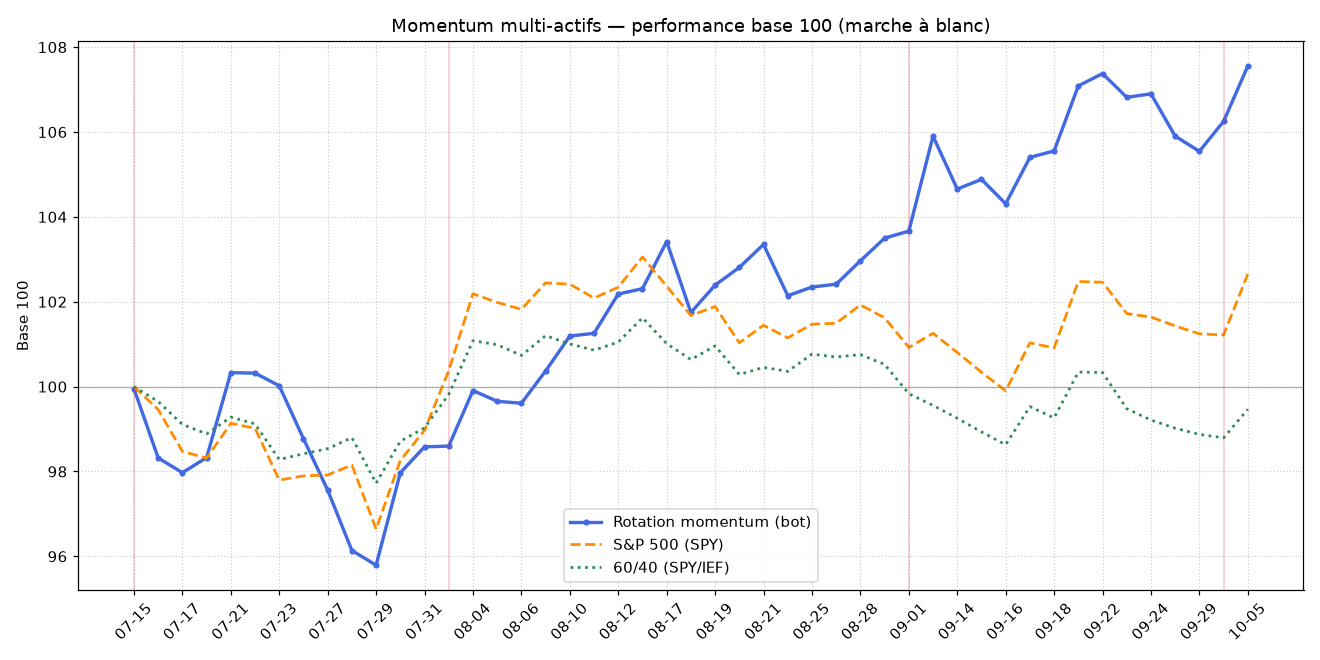
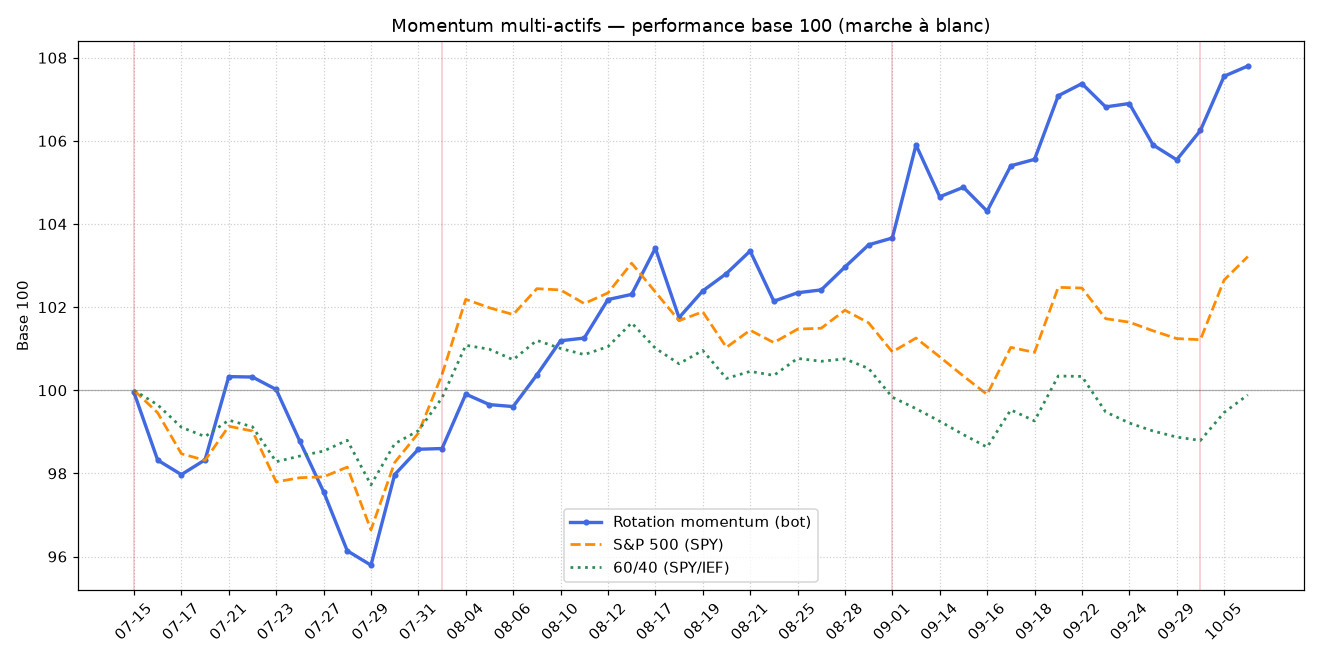
🧭 Passage quotidien du bot momentum [skip ci]

diff --git a/daily_report.md b/daily_report.md
@@ -1,49 +1,47 @@
-# 🧭 Rotation momentum multi-actifs — 2026-10-05
+# 🧭 Rotation momentum multi-actifs — 2026-10-06
 
 ## 💼 Situation
-- **Valeur du portefeuille : 10,755.48 $** (+7.55% depuis le départ)
-- Benchmark S&P 500 : +2.65% — Benchmark 60/40 : -0.53%
-- Régime mécanique : **offensif** — VIX : 15.5
+- **Valeur du portefeuille : 10,780.08 $** (+7.80% depuis le départ)
+- Benchmark S&P 500 : +3.22% — Benchmark 60/40 : -0.11%
+- Régime mécanique : **offensif** — VIX : 15.0
 - Frais cumulés depuis le départ : 5.31 $
 
 ## 📌 Positions
 | ETF | Nom | Valeur | Prix | Prix de revient |
 |---|---|---:|---:|---:|
-| **DBC** | Matières premières (panier large) | 3,505.24 $ | 32.39 $ | 28.79 $ |
-| **EEM** | Actions émergentes | 3,643.46 $ | 68.73 $ | 65.62 $ |
-| **QQQ** | Nasdaq 100 (tech US) | 3,609.31 $ | 756.20 $ | 717.24 $ |
+| **DBC** | Matières premières (panier large) | 3,537.70 $ | 32.69 $ | 28.79 $ |
+| **EEM** | Actions émergentes | 3,619.07 $ | 68.27 $ | 65.62 $ |
+| **QQQ** | Nasdaq 100 (tech US) | 3,625.82 $ | 759.66 $ | 717.24 $ |
 
 ## 📊 Classement momentum du jour
 | Rang | ETF | Score | 3 mois | 6 mois | 12 mois | Momentum absolu |
 |---|---|---:|---:|---:|---:|:---:|
-| #1 | **DBC** 📌 | +26.1% | +18.4% | +9.9% | +49.9% | ✅ |
-| #2 | **QQQ** 📌 | +20.3% | +6.7% | +28.8% | +25.4% | ✅ |
-| #3 | **EEM** 📌 | +18.4% | +4.6% | +21.0% | +29.6% | ✅ |
-| #4 | **SPY** | +13.0% | +3.9% | +18.2% | +17.0% | ✅ |
-| #5 | **EFA** | +7.1% | -0.1% | +7.3% | +14.1% | ✅ |
-| #6 | **GLD** | -1.2% | +0.5% | -11.2% | +7.0% | ❌ |
-| #7 | **VNQ** | -2.2% | -8.6% | +0.4% | +1.6% | ❌ |
-| #8 | **TLT** | -8.8% | -7.7% | -8.9% | -9.9% | ❌ |
-| refuge | **IEF** | -4.3% | -4.1% | -4.5% | -4.3% | ❌ |
+| #1 | **DBC** 📌 | +26.6% | +17.6% | +11.3% | +50.8% | ✅ |
+| #2 | **QQQ** 📌 | +20.9% | +6.9% | +29.3% | +26.5% | ✅ |
+| #3 | **EEM** 📌 | +17.1% | +3.1% | +19.7% | +28.3% | ✅ |
+| #4 | **SPY** | +13.8% | +4.8% | +18.8% | +17.7% | ✅ |
+| #5 | **EFA** | +7.3% | +0.8% | +7.6% | +13.4% | ✅ |
+| #6 | **GLD** | -0.8% | +2.1% | -11.5% | +6.9% | ❌ |
+| #7 | **VNQ** | -1.0% | -6.3% | +1.1% | +2.1% | ❌ |
+| #8 | **TLT** | -8.5% | -7.3% | -8.7% | -9.5% | ❌ |
+| refuge | **IEF** | -4.0% | -3.7% | -4.5% | -3.8% | ❌ |
 
 📌 = détenu — ✅/❌ = momentum absolu vs T-Bills (BIL)
 
 ## 🧠 L'œil de l'analyste (IA)
-**Tech et matières premières dominent malgré la vive tension obligataire** — régime perçu : `risk_on`
+**Hégémonie des matières premières et de la tech en plein paradoxe monétaire** — régime perçu : `risk_on`
 
-Le classement systématique met en évidence une dynamique de fin de cycle reflationniste : DBC domine nettement (+26,1%), soutenu par QQQ (+20,3%) et EEM (+18,4%), ce dernier profitant du dynamisme des ressources et de marchés clés comme le Brésil. Cette sélection 100% offensive contraste violemment avec la débâcle obligataire : TLT (-8,8%) et le refuge IEF (-4,3%) demeurent en momentum absolu négatif, confirmant le rejet total de la duration par le marché.
-
-Sur le front macroéconomique, la complaisance apparente des indices actions (VIX contenu à 15,5) masque la montée des périls sur les taux souverains américains et européens, alimentée par la persistance de l'inflation. L'écart entre EEM et SPY (+13,0%) reste d'environ 5 points, mais une accélération de la hausse des rendements obligataires menacerait en premier lieu les valorisations technologiques du QQQ. Pour l'heure, le momentum récompense pleinement l'exposition aux actifs réels et à la croissance sélective.
+Le portefeuille conserve une configuration purement offensive, articulée autour d'un trio reflationniste : matières premières (DBC en tête à +26,6%), tech américaine (QQQ) et émergents (EEM). Ce classement reflète un régime atypique de surchauffe où la dynamique haussière des actifs réels cohabite avec la résilience des mégacaps technologiques. L'actualité macro met en lumière des frictions patentes : alors que les indices boursiers frôlent des records sur fond de VIX bas (15,0), la persistance des pressions inflationnistes alimentée par l'énergie et la dette massive liée à l'IA contraint les banques centrales à maintenir une posture restrictive. L'éviction totale des obligations (TLT et IEF lourdement négatifs) confirme l'absence de parachute souverain conventionnel. Le différentiel de score entre EEM (+17,1%) et SPY (+13,7%) reste le principal point de bascule potentiel au sein du trio de tête en cas de consolidation du dollar ou de dégradation des marchés émergents.
 
 **Risques :**
-- ⚠ Choc de valorisation sur QQQ en cas de nouvelle poussée brutale des taux souverains américains.
-- ⚠ Retournement baissier sur DBC face aux hausses d'exportations pétrolières du Moyen-Orient.
-- ⚠ Contagion du stress sur les dettes souveraines européennes vers le sentiment de marché global.
+- ⚠ Résurgence de l'inflation énergétique via DBC forçant la Fed à durcir davantage ses taux.
+- ⚠ Sensibilité accrue de QQQ et EEM face à un rebond du dollar américain.
+- ⚠ Absence de protection obligataire en cas de choc exogène, IEF affichant un momentum négatif.
 
 **À surveiller :**
-- 👁 Publication des minutes de la Fed pour évaluer le risque de durcissement monétaire supplémentaire.
-- 👁 Écart de momentum entre EEM (+18,4%) et le poursuivant SPY (+13,0%) d'ici la rotation du 2 novembre.
-- 👁 Évolution des rendements obligataires US à 10 et 30 ans, principaux vecteurs de contagion macro.
+- 👁 Publication des minutes de la Fed mercredi et impact sur le spread EEM/SPY (écart de 3,4 points).
+- 👁 Comportement des cours du pétrole brut face à la volatilité de l'offre au Moyen-Orient.
+- 👁 Niveau de support du momentum 3 mois sur EEM (+3,1%) face au retour de SPY (+4,8%).
 
 ---
 *Rapport généré automatiquement — expérience à blanc, aucun argent réel, ceci n'est pas un conseil en investissement.*
